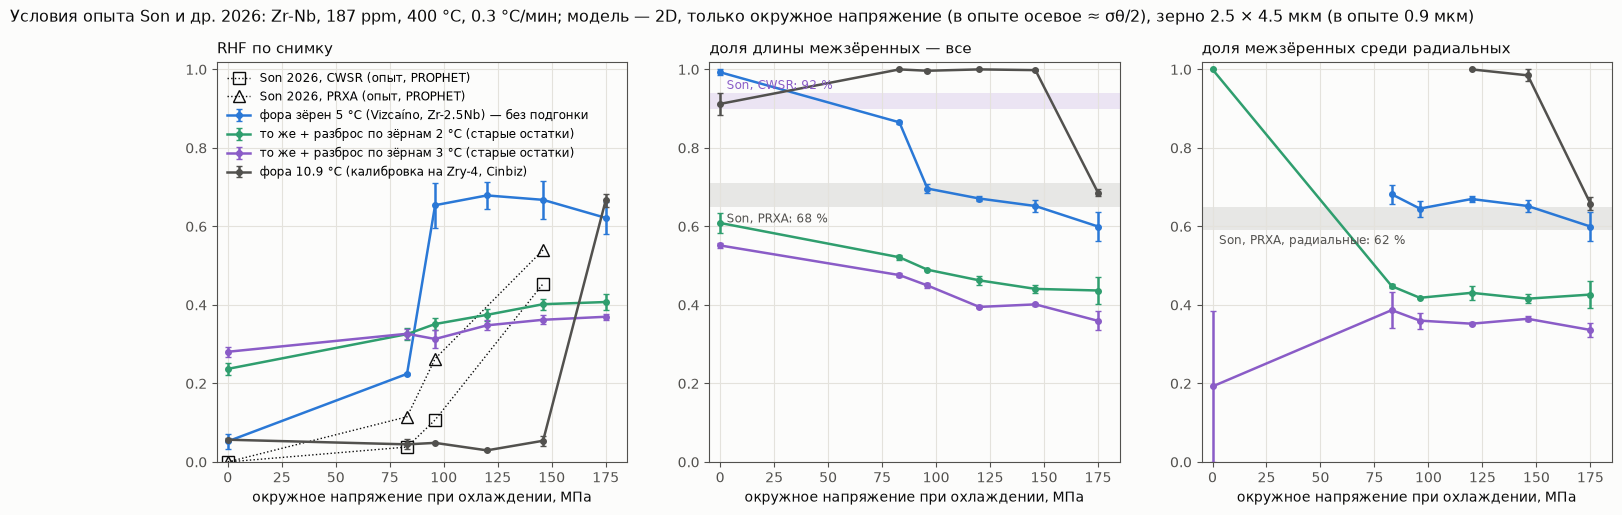
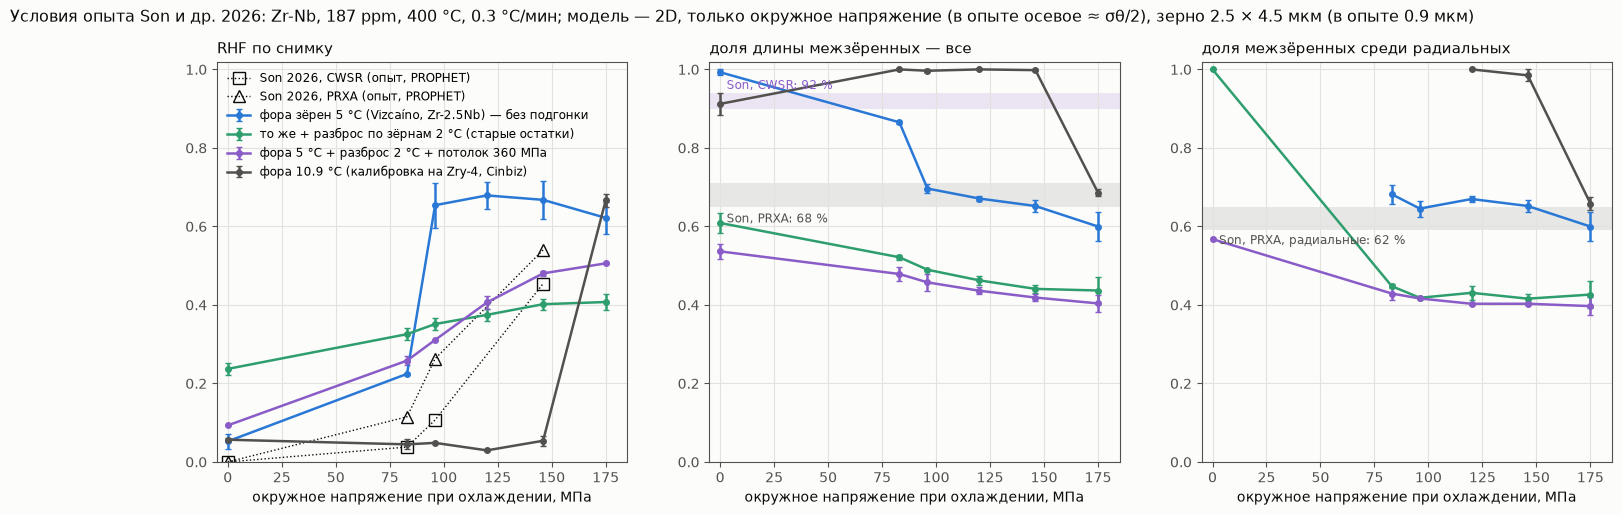
hydrides: можно ли подогнать плавный переход Son параметрами; определение RHF в PROPHET
PROPHET (Kim 2022) считает RHF с весами 0 / 0.5 / 1 по углам 40° и 65° —
как наше «RHF по снимку», сравнение прямое. Менее резкое зарождение переход
не растягивает. Разброс форы по зёрнам 2 °C с потолком 360 МПа даёт плавный
рост (0.26 / 0.31 / 0.48 при 83 / 96 / 146 МПа против 0.04–0.12 / 0.11–0.26 /
0.45–0.54), но межзёренных остаётся 0.40–0.54 против 0.92.

Claude-Session: https://claude.ai/code/session_01UkwPYpG7i1Euptx7URcKD8

diff --git a/hydrides/automaton/fig_son.py b/hydrides/automaton/fig_son.py
@@ -26,7 +26,7 @@ for d in sys.argv[1:]:                      # вариант — из перво
             R[v] = by
 VAR = [("viz5", BLUE, "фора зёрен 5 °C (Vizcaíno, Zr-2.5Nb) — без подгонки"),
        ("viz5_s2", GREEN, "то же + разброс по зёрнам 2 °C (старые остатки)"),
-       ("viz5_s3", VIOLET, "то же + разброс по зёрнам 3 °C (старые остатки)"),
+       ("viz5_s2c360", VIOLET, "фора 5 °C + разброс 2 °C + потолок 360 МПа"),
        ("zry10.9", MUTED, "фора 10.9 °C (калибровка на Zry-4, Cinbiz)")]
 SON = {"CWSR": {0: 0.0, 83: 0.038, 96: 0.107, 146: 0.454}, "PRXA": {0: 0.0, 83: 0.115, 96: 0.263, 146: 0.540}}
 fig, axs = plt.subplots(1, 3, figsize=(18, 5.2), facecolor=BG)
